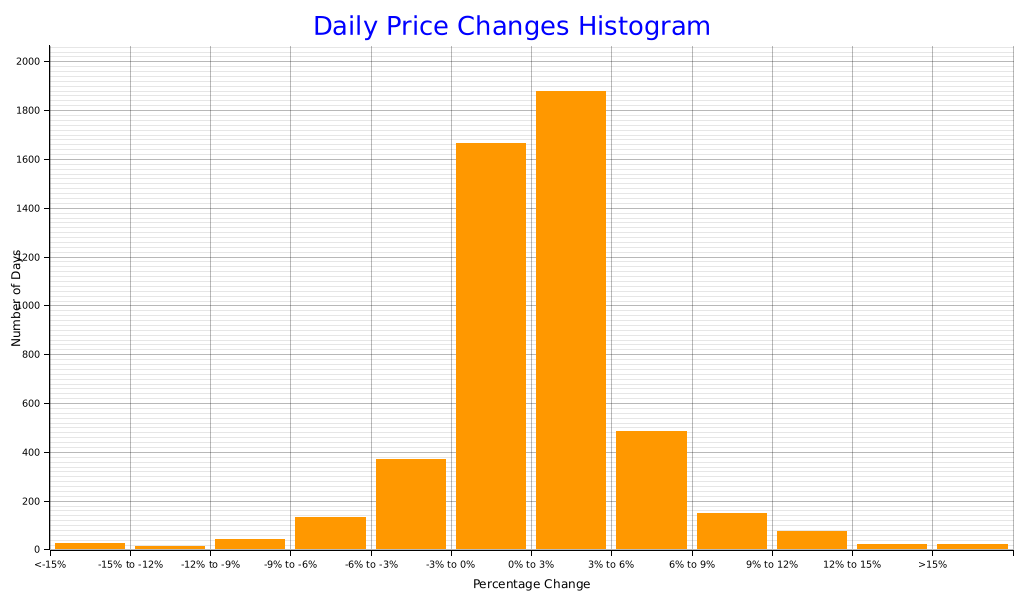
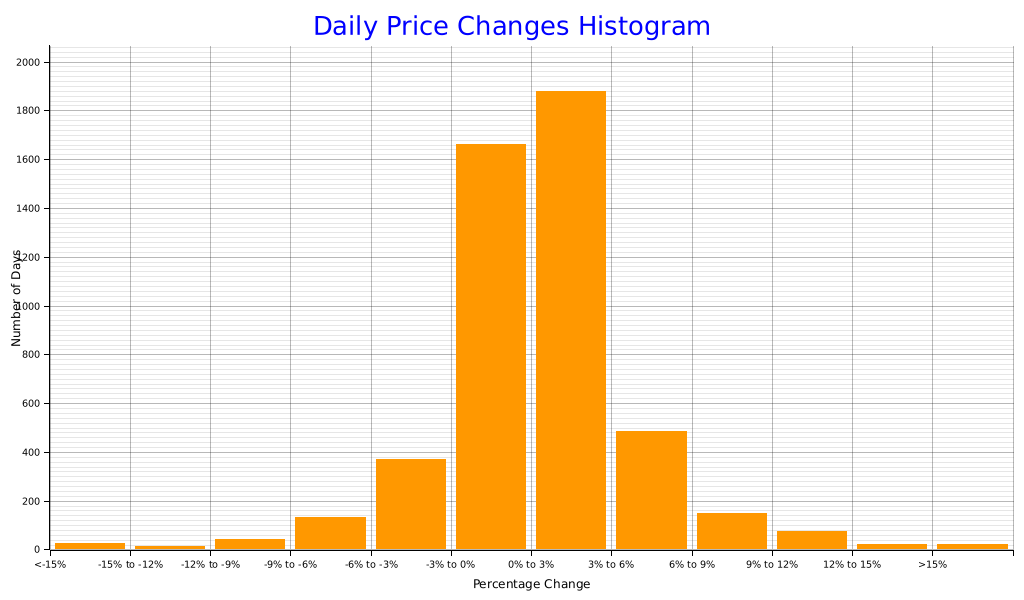
deploy: 1f4f1890d85b27429787c6776383cefd05d2765c

diff --git a/index.html b/index.html
@@ -168,11 +168,11 @@
         </tr>
         <tr>
           <td>-3% to 0%</td>
-          <td>1664</td>
+          <td>1663</td>
         </tr>
         <tr>
           <td>0% to 3%</td>
-          <td>1877</td>
+          <td>1878</td>
         </tr>
         <tr>
           <td>3% to 6%</td>
@@ -225,12 +225,12 @@
             <td>83,644.17</td>
             <td>83,924.32</td>
             <td>83,145.71</td>
-            <td>83,306.14</td>
-            <td class='wma-column'>45,841.07</td>
-            <td>32.10 (0.07 %)</td>
-            <td>44,959.08 (117.2 %)</td>
+            <td>83,853.20</td>
+            <td class='wma-column'>45,841.46</td>
+            <td>32.50 (0.07 %)</td>
+            <td>45,506.14 (118.6 %)</td>
             <td>778.61 (0.9 %)</td>
-            <td>-362.84 (0.4 %)</td>
+            <td>184.21 (0.2 %)</td>
           </tr>
           <tr>
             <td>2025-04-15</td>
